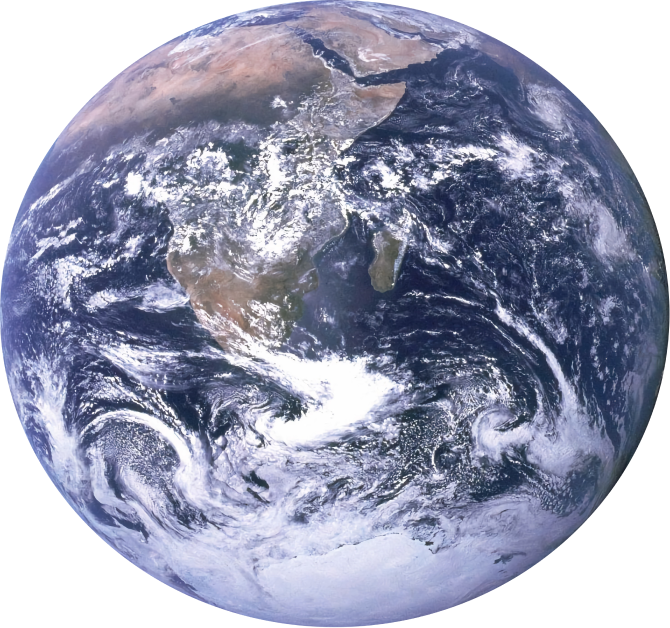
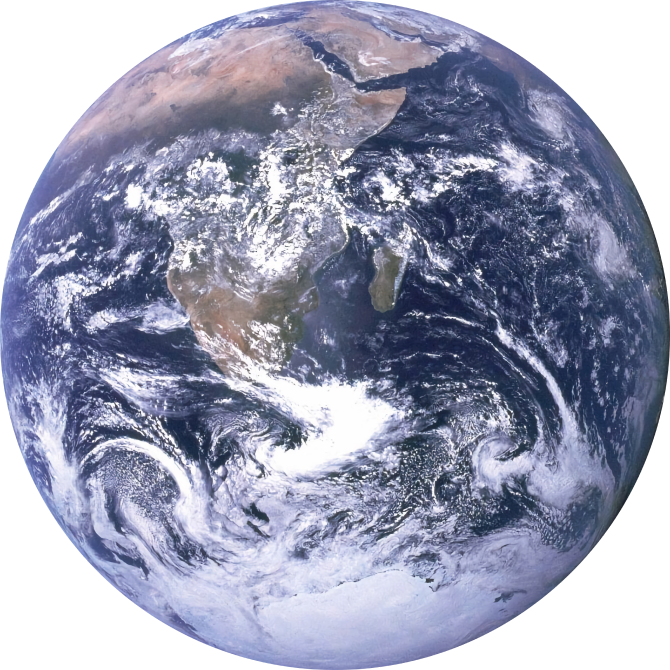
atualização

diff --git a/pages/downloads.html b/pages/downloads.html
@@ -74,12 +74,15 @@
         <a  class="nav-item nav-link text-white font-weight-bold">Download</a>
         <a href="./normas.html" class="nav-item nav-link text-white">Normas de Envio</a>
         <a href="./duvidas.html" class="nav-item nav-link text-white ">Dúvidas</a>
+      
+        <button type="button" class=" ml-auto btn btn-lg inscrevase2" onclick="window.location.href='./inscrevase.html'">
+          <span class="inscrevase-text font-weight-bold sofia ">Inscreva-se</span>
+        </button>
       </div>
      
+      
     </div>
-    <button type="button" class=" ml-auto mr-3 btn btn-lg inscrevase2" onclick="window.location.href='./inscrevase.html'">
-      <span class="inscrevase-text font-weight-bold sofia ">Inscreva-se</span>
-    </button>
+    
   </nav>
 
   <a id="scrollBtn"></a>
@@ -90,7 +93,7 @@
   <div class="download">
     <div class="container py-5 ">
       <div class="row py-5">
-        <div class="col-lg-12 col-md-6 d-flex justify-content-center flex-column" >
+        <div class="col-lg-12 col-md-12 d-flex justify-content-center flex-column" >
          <div class="col-12 d-flex justify-content-center animacao-s">
           <img class="img-fluid" src="../imagens/icones/coruja.svg" alt="Icone Coruja">
          </div>
@@ -112,7 +115,7 @@
       <div class="row mt-5 text-white d-flex justify-content-center animacao-l">
 
         <!-- download apresentação jornada -->
-        <div class="col-lg-5 col-md-6">
+        <div class="col-lg-5 col-md-6 my-3">
           <p class="titulo ">TEMPLATE 2021</p>
           <a href="../assets/modelos-para-downlaod/Modelo_Resumo_ Jornada e Simpósio 2021.docx" download>
           <div class="card-site d-flex flex-column align-items-center justify-content-center" >
@@ -123,7 +126,7 @@
         </div>
 
         <!-- download apresentação simpósio -->
-        <div class="col-lg-5 col-md-6">
+        <div class="col-lg-5 col-md-6 my-3" >
           <p class="titulo ">TEMPLATE 2021</p>
           <a href="../assets/modelos-para-downlaod/Modelo_Slide_Jornada_2021.pptx" download>
           <div class="card-site d-flex flex-column align-items-center justify-content-center">
@@ -149,7 +152,7 @@
        <p class="mt-4 text-left pl-2">© 2021 All Rights Reserved.</p>
      </div>
      <div class="col-lg-4 col-md-6 d-flex jsutify-content-center flex-column align-items-center">
-      <div class="col-lg-12 col-md-6">
+      <div class="col-lg-12 col-md-12">
         <p class="font-weight-bold text-left">Contato</p>
         <p class="text-left">Rua da Penha, 290 Penha II, Passos - MG BRASIL| 37903-070</p>
         <p class="text-left">+55 (35) 00000-0000</p>
@@ -157,7 +160,7 @@
 
      </div>
      <div class="col-lg-4 col-md-12">
-      <div class="row">
+      <div class="row my-2">
         <div class="col p-0 mr-1">
           <p class="font-weight-bold text-center">Instagram</p>
         </div>

diff --git a/index.html b/index.html
@@ -269,7 +269,7 @@
               <img src="./imagens/divs/rect.png" alt="" class="img-fluid">
             </div>
             <div class="col-lg-6 col-md-6">
-              <h4 class="font-weight-bold  sofia">Nome do Palestrante</h4>
+              <h4 class="font-weight-bold pt-2 sofia">Nome do Palestrante</h4>
               <p class="pt-3">A Jornada Científica e Tecnológica e o Simpósio de Pós-Graduação do IFSULDEMINAS
                 é o maior e mais importante evento científico da Instituição, integrando estudantes
                 de cursos técnicos, graduação e pós-graduação, bem como pesquisadores e seus estudos.
@@ -288,7 +288,7 @@
               <img src="./imagens/divs/rect.png" alt="" class="img-fluid">
             </div>
             <div class="col-lg-6 col-md-6">
-              <h4 class="font-weight-bold sofia">Nome do Palestrante</h4>
+              <h4 class="font-weight-boldpt-2 sofia">Nome do Palestrante</h4>
               <p class="pt-3">A Jornada Científica e Tecnológica e o Simpósio de Pós-Graduação do IFSULDEMINAS
                 é o maior e mais importante evento científico da Instituição, integrando estudantes
                 de cursos técnicos, graduação e pós-graduação, bem como pesquisadores e seus estudos.
@@ -307,7 +307,7 @@
               <img src="./imagens/divs/rect.png" alt="" class="img-fluid">
             </div>
             <div class="col-lg-6 col-md-6">
-              <h4 class="font-weight-bold  sofia">Nome do Palestrante</h4>
+              <h4 class="font-weight-bold pt-2 sofia">Nome do Palestrante</h4>
               <p class="pt-3">A Jornada Científica e Tecnológica e o Simpósio de Pós-Graduação do IFSULDEMINAS
                 é o maior e mais importante evento científico da Instituição, integrando estudantes
                 de cursos técnicos, graduação e pós-graduação, bem como pesquisadores e seus estudos.
@@ -376,7 +376,7 @@
       <!-- Ttulo da Organizaão -->
       <div class="row mt-5 pt-5">
         <div class="col-lg-6 col-md-12 col-sm-12">
-          <h2 class="f text-left  pb-5 animacao-l">Organização</h2>
+          <h2 class="text-left  pb-5 animacao-l">Organização</h2>
         </div>
       </div>
       <div class="row animacao-l">

diff --git a/css/estilo.css b/css/estilo.css
@@ -143,8 +143,10 @@ header h5{
 
 .inscrevase2{
   background: linear-gradient(267.72deg, #2F80ED 0%, #77B1FF 99.98%);
-  padding: .25rem 1rem;
+  padding: .10rem 1rem;
   transition: all .2s ease-out;
+  height: 3rem;
+  font-size: 18px;
 }
 
 .inscrevase2:hover,.inscrevase:hover {
@@ -481,16 +483,53 @@ animation-iteration-count: infinite;
 /* pagina de normas de envio */
 
 .normas .container {
+  position: relative;
   background-color: #f1f1f1;
   border-radius: 15px;
   box-shadow: 0px -36px 21px rgba(0, 0, 0, 0.49);
+  margin-top: 30vh;
 }
 
 .terra{
-  background-image: url("../imagens/divs/Earth.png");
-  min-height: 45vh;
-  background-repeat: no-repeat;
-  background-position: 50% 0;
+  position: relative;
+ 
+}
+
+.terra img{
+  transform-origin: center;
+
+  -webkit-animation:animcaoTerra 35s linear infinite;
+  -moz-animation:animcaoTerra 35s linear infinite;
+  animation:animcaoTerra 35s linear infinite;
+}
+
+.responsive{
+  max-width:100%;
+  /* max-height:100%; */
+}
+
+.center{
+  position: absolute;
+  top: 30%;
+  left: 50%; 
+  transform: translate(-50%, 10%);
+}
+
+
+parent{
+  position: relative;
+}
+
+@keyframes animcaoTerra {
+  0%{
+    transform: rotate(0deg) ; 
+    -webkit-transform: rotate(0deg)  ;
+  }
+  100%{
+
+    transform: rotate(360deg)  ;
+    -webkit-transform: rotate(360deg)  ;
+  }
 }
 
 /* Estilos da página de dúvidas */

diff --git a/pages/duvidas.html b/pages/duvidas.html
@@ -74,14 +74,17 @@
         <a href="./downloads.html" class="nav-item nav-link text-white">Download</a>
         <a href="./normas.html" class="nav-item nav-link text-white">Normas de Envio</a>
         <a  class="nav-item nav-link text-white font-weight-bold">Dúvidas</a>
+        
+        <button type="button" class=" ml-auto btn btn-lg inscrevase2" onclick="window.location.href='./inscrevase.html'">
+          <span class="inscrevase-text font-weight-bold sofia ">Inscreva-se</span>
+        </button>
+      
       </div>
 
       
      
     </div>
-    <button type="button" class=" ml-auto mr-3 btn btn-lg inscrevase2" onclick="window.location.href='./inscrevase.html'">
-      <span class="inscrevase-text font-weight-bold sofia ">Inscreva-se</span>
-    </button>
+   
   </nav>
 
   <a id="scrollBtn"></a>
@@ -127,7 +130,7 @@
   <!-- Grid container -->
   <div class="container py-5">
    <div class="row  py-5">
-     <div class="col-lg-4 col-md-6 ">
+     <div class="col-lg-4 col-md-12 ">
        <img class="img-fluid" src="../imagens/header/Logo-Evento.svg" alt="Logo Evento">
        <p class="mt-4 text-left pl-2">© 2021 All Rights Reserved.</p>
      </div>

diff --git a/pages/inscrevase.html b/pages/inscrevase.html
@@ -170,7 +170,7 @@
        <p class="mt-4 text-left pl-2">© 2021 All Rights Reserved.</p>
      </div>
      <div class="col-lg-4 col-md-6 d-flex jsutify-content-center flex-column align-items-center">
-      <div class="col-lg-12 col-md-6">
+      <div class="col-lg-12 col-md-12">
         <p class="font-weight-bold text-left">Contato</p>
         <p class="text-left">Rua da Penha, 290 Penha II, Passos - MG BRASIL| 37903-070</p>
         <p class="text-left">+55 (35) 00000-0000</p>

diff --git a/css/mobile.css b/css/mobile.css
@@ -34,6 +34,11 @@
     margin: 2rem !important;
   }
 
+  .organizacao .row .col-md-6{
+   align-items: flex-start !important;
+   
+  }
+
 }
 
 
@@ -125,4 +130,9 @@
   .card-site h4 {
     font-size: 28px;
   }
+
+  .organizacao .row .col-md-6{
+    align-items: flex-start !important;
+    margin-top: 1rem;
+   }
 }
